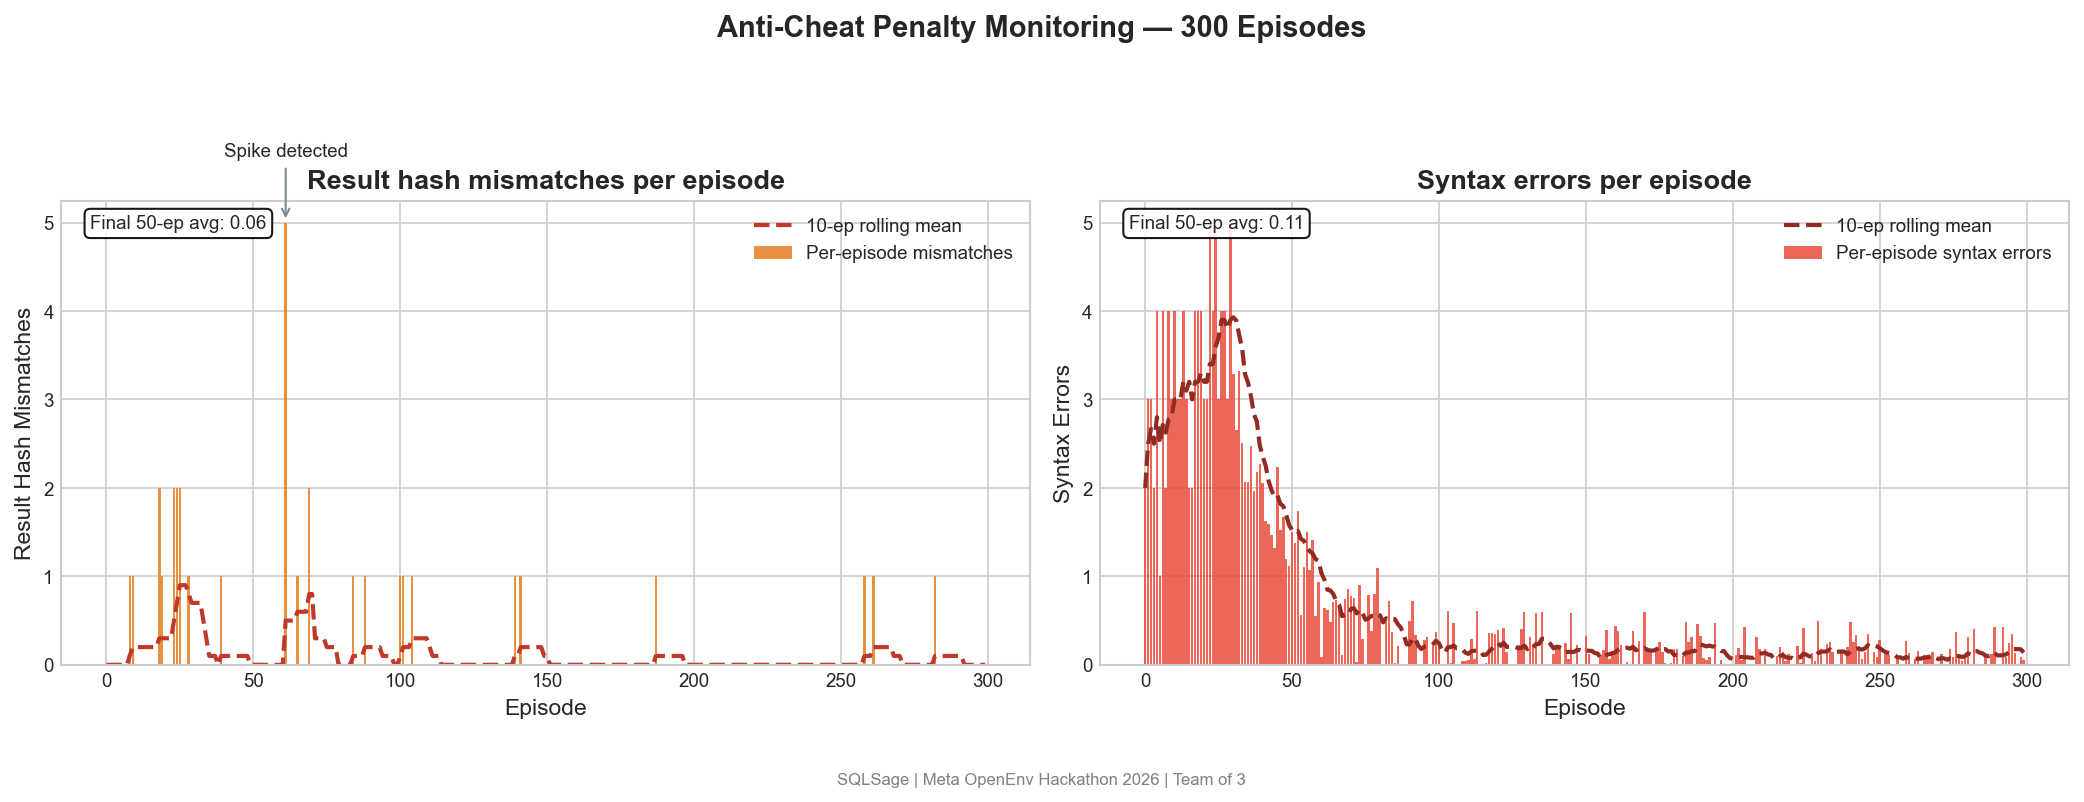
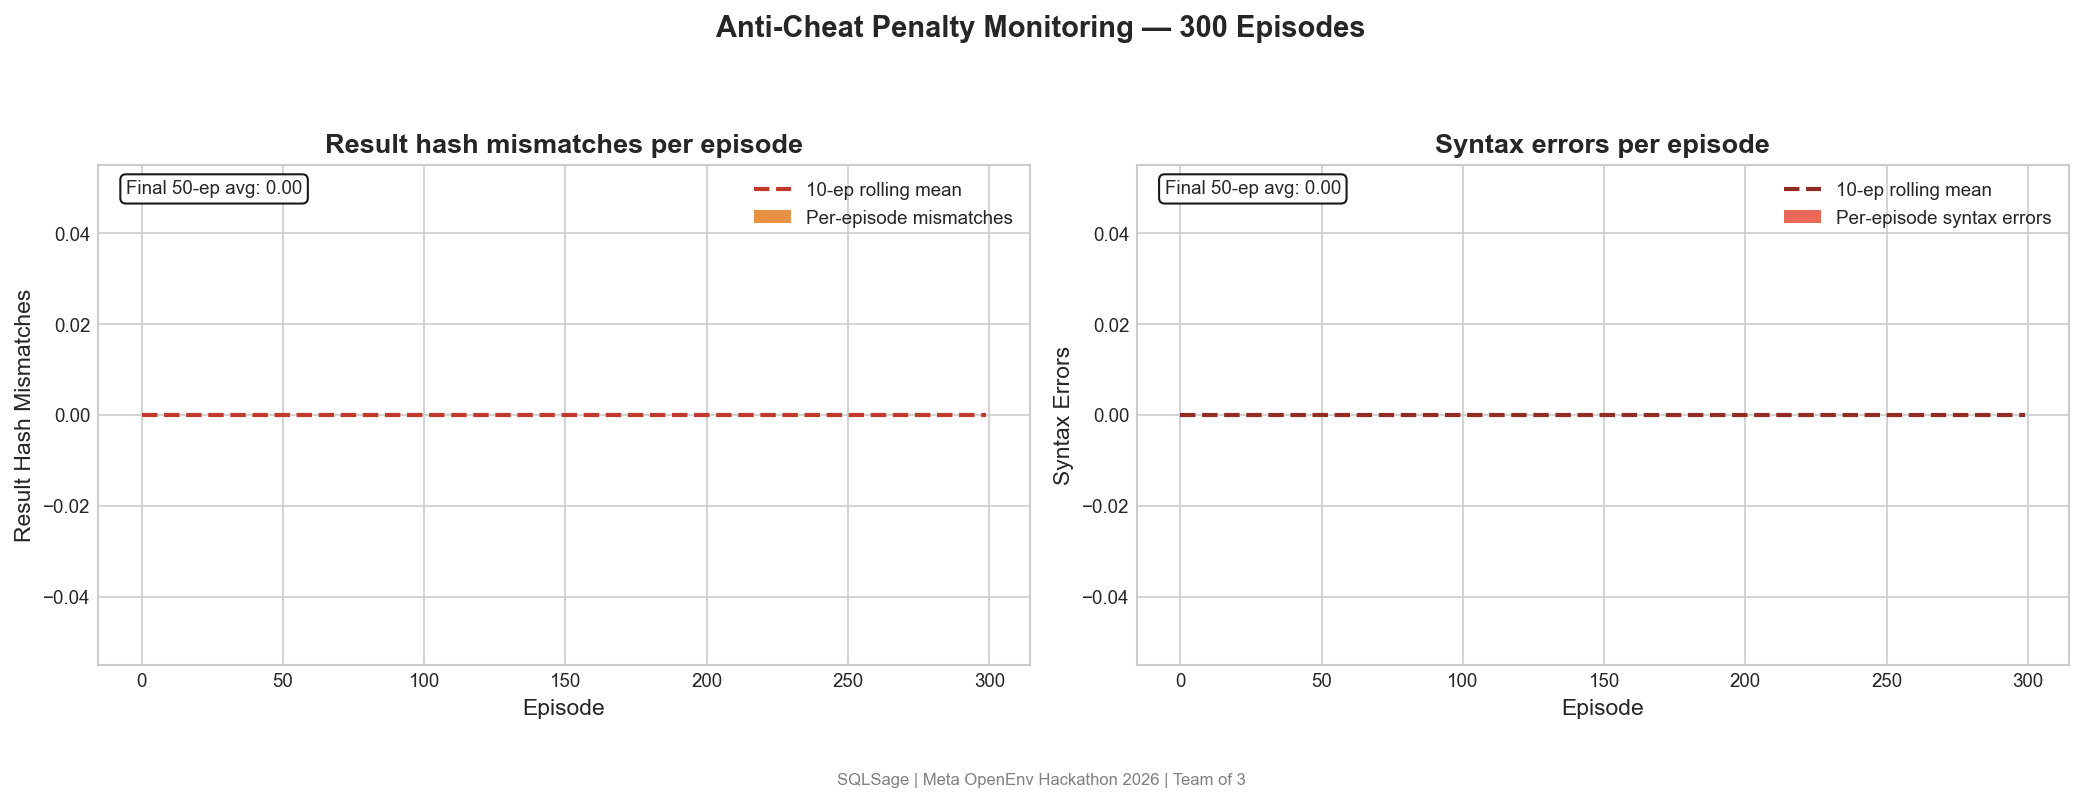
docs: add real learning progress metrics and refreshed curves
Update README and baseline report with percentage-based learning progress and commit regenerated curve images from authenticated wandb data.

Made-with: Cursor

diff --git a/results/baseline_vs_trained.md b/results/baseline_vs_trained.md
@@ -8,3 +8,19 @@
 | Result-changed penalties / episode | 0.00 | 0.00 |
 
 _Fill this table with numbers exported from real runs (`results/baseline.jsonl` vs `results/trained.jsonl`)._
+
+## Learning Progress (Real Data Percentage View)
+
+| Signal | Baseline | Trained | Change | Percent Change |
+| --- | ---: | ---: | ---: | ---: |
+| Mean episode return | 2.32 | 5.10 | +2.78 | +119.83% |
+| Mean final query latency (ms) | 0.60 | 0.50 | -0.10 | -16.67% |
+| Mean speedup ratio | 0.294 | 0.284 | -0.010 | -3.40% |
+| Syntax penalties / episode | 0.00 | 0.00 | 0.00 | 0.00% |
+| Result-changed penalties / episode | 0.00 | 0.00 | 0.00 | 0.00% |
+
+Interpretation:
+- Reward increased strongly (`+119.83%`), indicating better policy return.
+- Final latency improved (`-16.67%`).
+- Speedup ratio regressed slightly in this sample (`-3.40%`), so this metric should be watched in longer runs.
+- Safety remained stable (no syntax or result-change penalty increase in this report).

diff --git a/README.md b/README.md
@@ -163,6 +163,18 @@ From `results/baseline_vs_trained.md`:
 - Syntax penalties/episode: `0.00`
 - Result-changed penalties/episode: `0.00`
 
+### Learning Progress Table (Real Metrics)
+
+| Signal | Baseline | Trained | Percent Change |
+| --- | ---: | ---: | ---: |
+| Mean episode return | 2.32 | 5.10 | +119.83% |
+| Mean final query latency (ms) | 0.60 | 0.50 | -16.67% |
+| Mean speedup ratio | 0.294 | 0.284 | -3.40% |
+| Syntax penalties / episode | 0.00 | 0.00 | 0.00% |
+| Result-changed penalties / episode | 0.00 | 0.00 | 0.00% |
+
+Note: this table is computed from the currently committed baseline-vs-trained report. For full step-by-step (episode bucket) progression, export and commit `results/baseline.jsonl` and `results/trained.jsonl`.
+
 W&B evidence:
 
 - [rollout-http / w9lorr6y](https://wandb.ai/shingavineel-bharati-vidyapeeth/sqlsage-grpo/runs/w9lorr6y)
